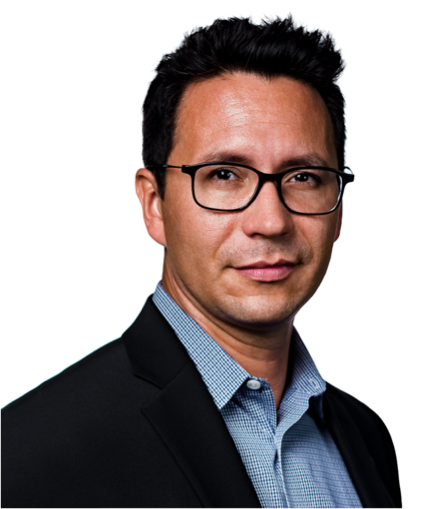
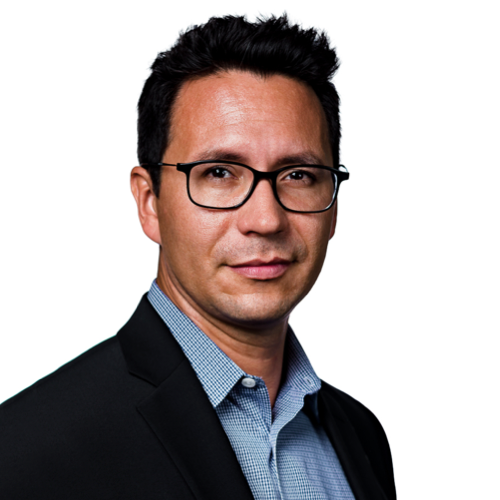
adding prof pics

diff --git a/index.html b/index.html
@@ -96,9 +96,6 @@
 				<div>
 					<h4>Isaac Zaworski, <a href="https://www.vricon.com/" target="_blank">Vricon</a></h4>
 				</div>
-				<!-- <div>
-					<h4>Jessica Brillhart, <a href="https://www.vrai.pictures/" target="_blank">Vrai Pictures</a></h4>
-				</div> -->
 			</div>
 		</div>
 
@@ -273,7 +270,7 @@
 
 		<div class="profile">
 			<div>
-				<!-- <img src="speakers/assem_basvandepoel.jpg" /> -->
+				<img src="speakers/Jane_Gormley.jpg" />
 
 				<h3>Jane Gormley</h3>
 				<h4><a href="https://designforamerica.com/" target="_blank">Design for America</a>, WashU strategic planning</h4>
@@ -281,7 +278,7 @@
 				<p>Jane Gormley is a senior at Washington University in St. Louis studying Sociology and Creative Practice for Social Change. She is a former president of WashU Design For America and is currently leading the organization through a set of projects to reimagine its approach to community-engaged work.</p>
 			</div>
 			<div>
-				<!-- <img src="speakers/assem_basvandepoel.jpg" /> -->
+				<img src="speakers/Jason_Napolitano.png" />
 
 				<h3>Jason Napolitano</h3>
 				<h4>Speculative designer, former Experience Design Director at <a href="https://www.mckinsey.com/business-functions/mckinsey-design/our-insights" target="_blank">McKinsey Design</a></h4>
@@ -289,7 +286,7 @@
 				<p>Jason currently works as Global Design Director for Cision. He brings twenty years specializing in service design and digital product development along with helping companies innovate using strategic foresight. Previously Jason was Experience Design Director at McKinsey where he co-founded the Futures Tribe bringing foresight approaches to clients. He is also in the process of writing his first science fiction novel.</p>
 			</div>
 			<div>
-				<!-- <img src="speakers/assem_basvandepoel.jpg" /> -->
+				<img src="speakers/Brad_Samuels_SITU.jpg" />
 
 				<h3>Brad Samuels</h3>
 				<h4>Head of research at <a href="https://situ.nyc/" target="_blank">SITU</a>, architecture practice for social impact</h4>
@@ -297,22 +294,13 @@
 				<p>Brad Samuels is a founding partner at SITU and the Director of SITU Research—an organization that merges data and design to create new pathways for justice and accountability. Recent work has focused on the use of citizen video as key evidence documenting the excessive use of force and suppression of dissent by police departments across the United States. Outside the multidisciplinary practice, Brad sits on the Technology Advisory Board for the International Criminal Court and the board of The Architectural League of New York, is a Fellow with the Urban Design Forum and teaches in Barnard College and Columbia University’s undergraduate architecture program.</p>
 			</div>
 			<div>
-				<!-- <img src="speakers/assem_basvandepoel.jpg" /> -->
+				<img src="speakers/Isaac_Zaworski_placeholder.jpg" />
 
 				<h3>Isaac Zaworski</h3>
 				<h4>CEO of geospatial analytics and visualization company <a href="https://www.vricon.com/" target="_blank">Vricon</a></h4>
 
 				<p>tbd</p>
 			</div>
-
-
-			<!-- <div>
-				<h3>Jessica Brillhart</h3>
-				<h4>Director of USC's Mixed Reality Lab, Founder of <a href="https://www.vrai.pictures/" target="_blank">Vrai Pictures</a></h4>
-
-				<p>tbd</p>
-			</div> -->
-
 		</div>
 
 	</div>
@@ -331,7 +319,7 @@
 
 		<div class="profile">
 			<div>
-				<!-- <img src="speakers/assem_basvandepoel.jpg" /> -->
+				<img src="speakers/Shelby_Jiggets-Tivony.jpg" />
 
 				<h3>Shelby Jiggetts-Tivony</h3>
 				<h4>VP of Creative at Disney Parks at <a href="https://d23.com/9-inspirational-disney-imagineers/" target="_blank">Disney Imagineering</a></h4>
@@ -339,7 +327,7 @@
 				<p>Shelby Jiggetts-Tivony is the vice-president of global creative and advanced development for Disney Parks Live Entertainment.  In that capacity she is responsible for the leadership of the Glendale, CA based creative executives, creative directors and art directors as well as talent development and outreach. Globally she is part of a leadership team charged with upholding the creative integrity of live entertainment (stage shows, parades, character development and spectaculars) in Disney’s parks, resorts and cruise ships around the world.</p>
 			</div>
 			<div>
-				<!-- <img src="speakers/assem_basvandepoel.jpg" /> -->
+				<img src="speakers/Alexandre_DeBetak_placeholder.jpeg" />
 
 				<h3>Alexandre de Betak</h3>
 				<h4>Founder of <a href="https://blog.bureaubetak.com/" target="_blank">Bureau Betak</a>, fashion show production and design</h4>
@@ -347,7 +335,7 @@
 				<p>Alexandre de Betak has, for over 25 years, been the creative force behind Bureau Betak, the world’s leading fashion show and special events company. Alexandre and his team have designed and produced shows, events and exhibitions, for brands including Christian Dior, Calvin Klein, Saint Laurent, Hermes, Celine, Raf Simons, John Galliano, Rodarte, among many others. Alexandre de Betak is at the helm of some of the most innovative shows in the world, although as he once said, “My favorite show is the one I haven’t done yet”, an example of his constant pursuit of perfection.</p>
 			</div>
 			<div>
-				<!-- <img src="speakers/assem_basvandepoel.jpg" /> -->
+				<img src="speakers/Bader_Al_Moulah.jpg" />
 
 				<h3>Bader Al Moulah</h3>
 				<h4>Founder of <a href="https://www.instagram.com/in.visible.inc/?igshid=1sjmu9qguawjw" target="_blank">in.visible.inc</a>, CGI storytelling</h4>
@@ -355,7 +343,7 @@
 				<p>Bader Al Moulah is an Architect, Engineer, Filmmaker, Photographer, and aspiring Astronaut. His passion for science and film led him down a path of creative art, design, travel and adventure. After achieving his dream of becoming an Imagineer for Walt Disney Imagineering, he decided to pursue his childhood goal of becoming an Astronaut. He is currently the co-founder of in.visible.inc, a start-up VFX production house in Kuwait, President of the Kuwaiti Chapter of the Mars Society; Ignition, and the National Point of Contact in Kuwait for the Space Generation Advisory Council. He holds a Bachelors of Science in Architectural Engineering and a Master's in Architecture. Bader hopes to inspire others to pursue their dreams. </p>
 			</div>
 			<div>
-				<!-- <img src="speakers/assem_basvandepoel.jpg" /> -->
+				<img src="speakers/Levi_Hanssen.jpg" />
 
 				<h3>Levi Hanssen</h3>
 				<h4>Writer at <a href="https://www.remote-tourism.com/" target="_blank">Visit Faroe Islands Remote Tourism</a></h4>
@@ -367,14 +355,6 @@
 				He also manages, organises and creates content for Visit Faroe Islands' website, social media channels and newsletters. Levi has a degree in journalism and has previously worked as a TV journalist and magazine editor.
 				</p>
 			</div>
-
-			<!-- <div>
-				<h3>Justin Underhill</h3>
-
-				<h4>Editor of <a href="https://dahj.org/" target="_blank">International Journal for Digital Art History</a></p>
-
-				<p>tbd</p>
-			</div> -->
 		</div>
 
 	</div>
@@ -392,7 +372,7 @@
 
 		<div class="profile">
 			<div>
-				<!-- <img src="speakers/assem_basvandepoel.jpg" /> -->
+				<img src="speakers/Carol_Liu_placeholder.jpg" />
 
 				<h3>Carol Liu</h3>
 				<h4>VR filmmaker at <a href="https://www.u-mastudios.com/about" target="_blank">U-MA studios</a></h4>
@@ -401,7 +381,7 @@
 			</div>
 
 			<div>
-				<!-- <img src="speakers/assem_basvandepoel.jpg" /> -->
+				<img src="speakers/Sofie_Anderson_placeholder.jpg" />
 
 				<h3>Sofie Anderson</h3>
 				<h4>Head of Digital, <a href="https://www.metmuseum.org/" target="_blank">Metropolitan Museum of Art</a></h4>
@@ -410,7 +390,7 @@
 			</div>
 
 			<div>
-				<!-- <img src="speakers/assem_basvandepoel.jpg" /> -->
+				<img src="speakers/Abdul_Gieballa.jpg" />
 
 				<h3>Abdul Gieballa</h3>
 				<h4>Founder of VR tech startup <a href="https://nextgenhq.com/spotlights/abdulgieballa" target="_blank">Innov8</a></h4>
@@ -418,7 +398,7 @@
 				<p>Abdul Gieballa is a 25 year old Los Angeles native and the Founder and CEO of Innov8 Technologies Inc., a Virtual & Augmented Reality Media Production and Marketing Company. He studied Mechanical Engineering at UCLA, and when he’s not working on blurring the lines of reality, he loves to take spontaneous trips around the world.</p>
 			</div>
 			<div>
-				<!-- <img src="speakers/assem_basvandepoel.jpg" /> -->
+				<img src="speakers/Michaela_Kane_placeholder.jpg" />
 
 				<h3>Michaela Kane</h3>
 				<h4>Head of social branding at immersive art exhibition, <a href="https://www.teamlab.art/" target="_blank">TeamLab</a></h4>
@@ -426,7 +406,7 @@
 				<p>tbd</p>
 			</div>
 			<div>
-				<!-- <img src="speakers/assem_basvandepoel.jpg" /> -->
+				<img src="speakers/Ariel_Seidman_placeholder.png" />
 
 				<h3>Ariel Seidman</h3>
 				<h4>Founder and CEO of global 4D map <a href="https://hivemapper.com/" target="_blank">Hivemapper</a></h4>
